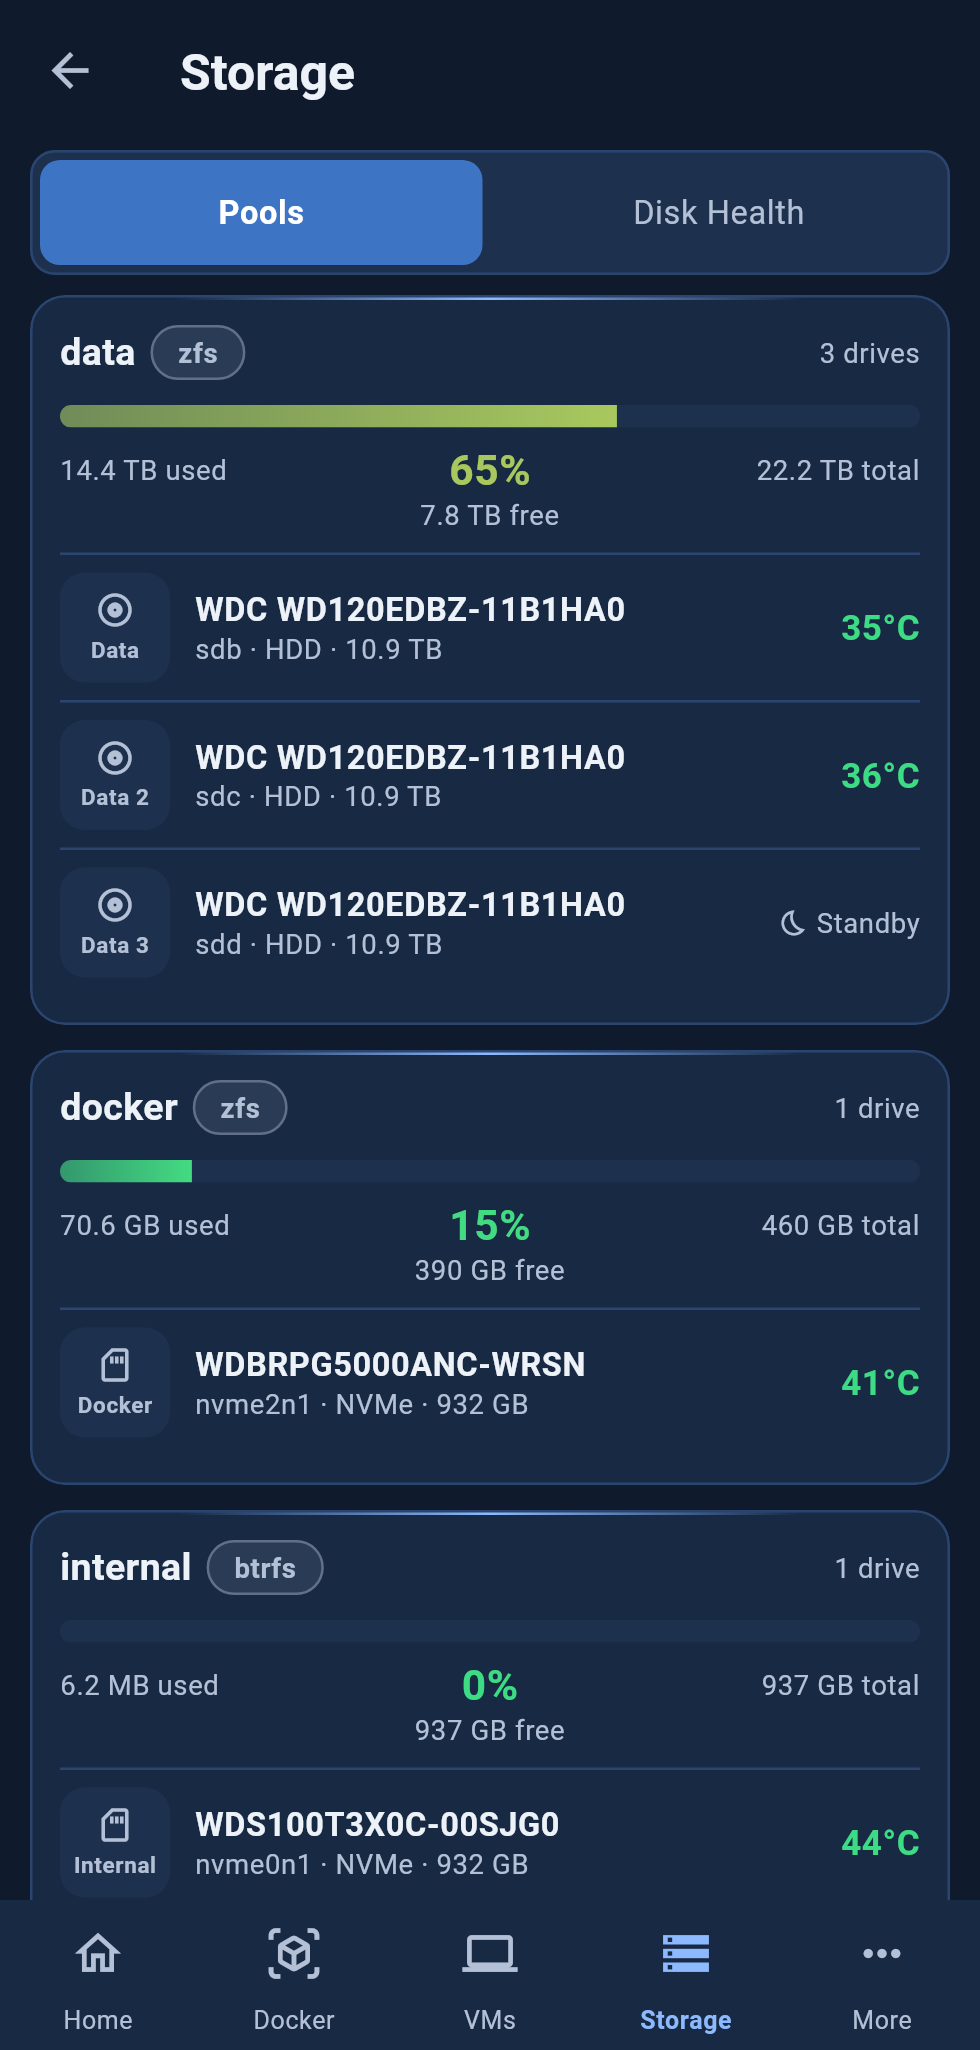
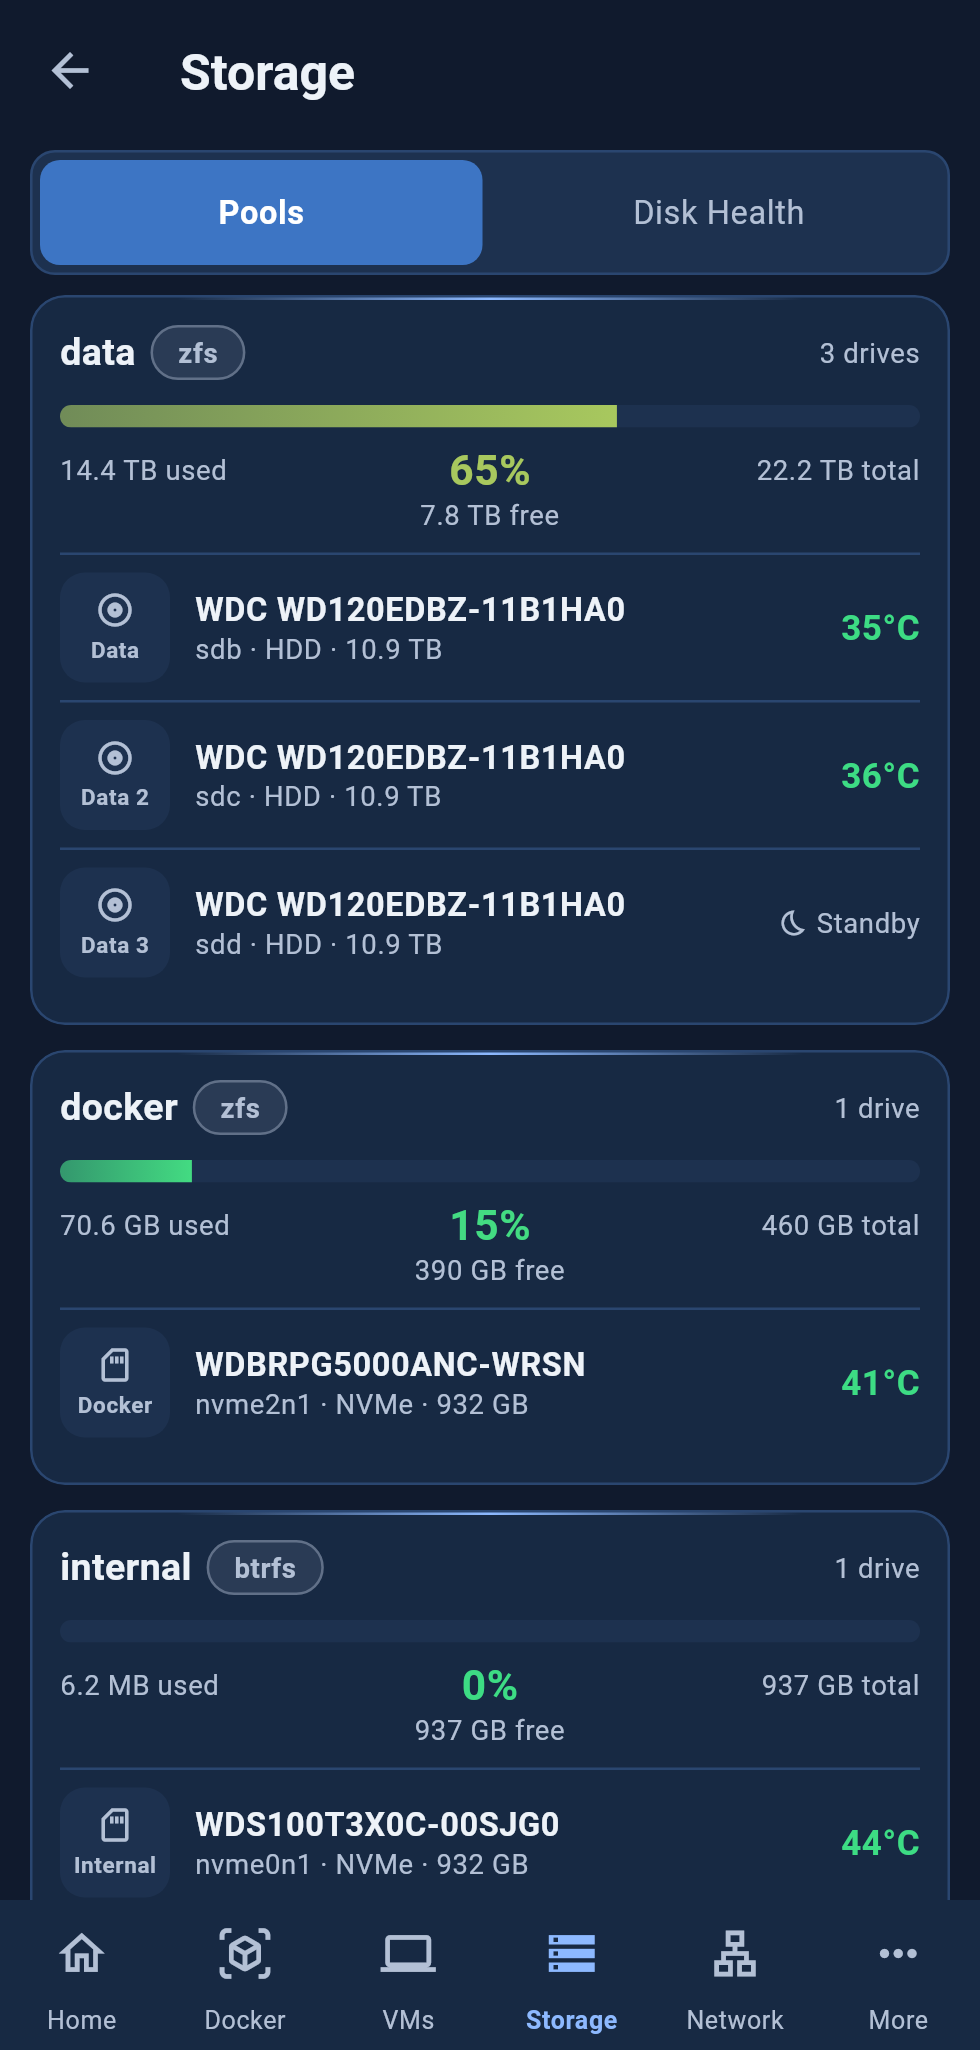
docs: screenshots with the Network tab in the bottom bar

diff --git a/README.md b/README.md
@@ -5,7 +5,7 @@ An Android remote for Unraid servers: server health at a glance (a green, amber 
 This repository holds signed release builds only.
 
 <p>
-<img src="screenshots/home.png" width="220" alt="Home: a green Healthy server card, CPU, array, uptime and alert stats, CPU and RAM gauges, one line per storage pool, and container and VM counts">
+<img src="screenshots/home.png" width="220" alt="Home: a green Healthy server card, CPU, array, uptime and alert stats, CPU and RAM gauges, one line per storage pool, container and VM counts, and the live Network card">
 <img src="screenshots/health.png" width="220" alt="Home: an amber Warning card listing its reasons, a hot drive and an unread warning, each one opening the screen that deals with it">
 <img src="screenshots/docker.png" width="220" alt="Docker: count tiles that filter the list, running containers with update tags and web page links, stopped and paused containers with a quick start">
 <img src="screenshots/update.png" width="220" alt="Docker: a container's sheet with an Update button for a newer image">
